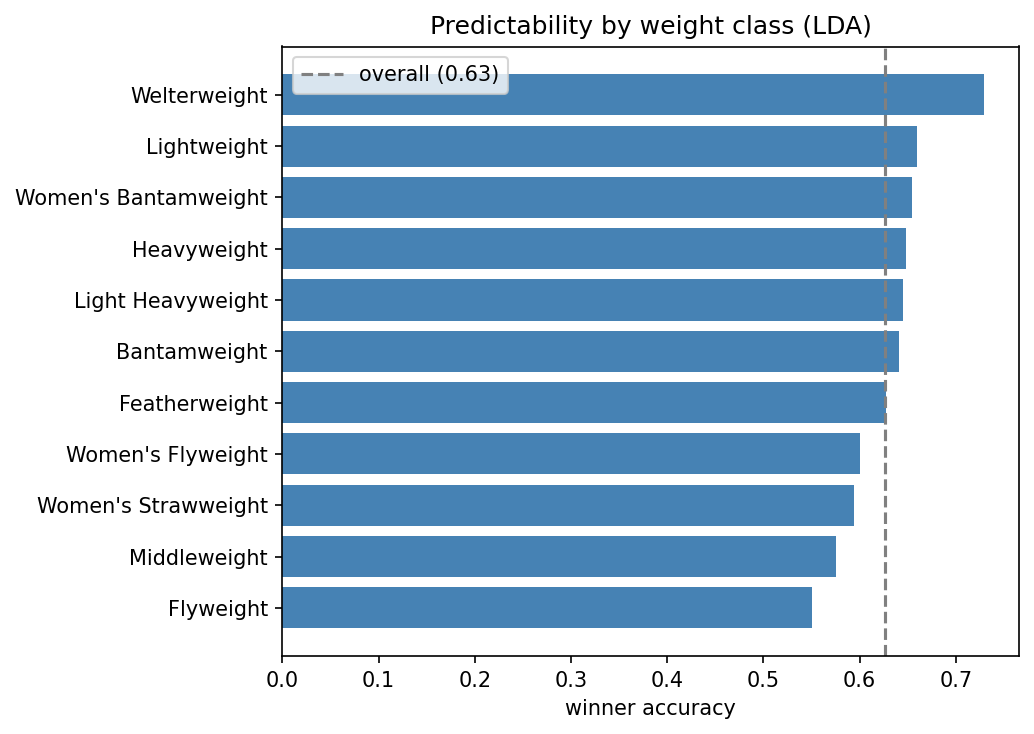
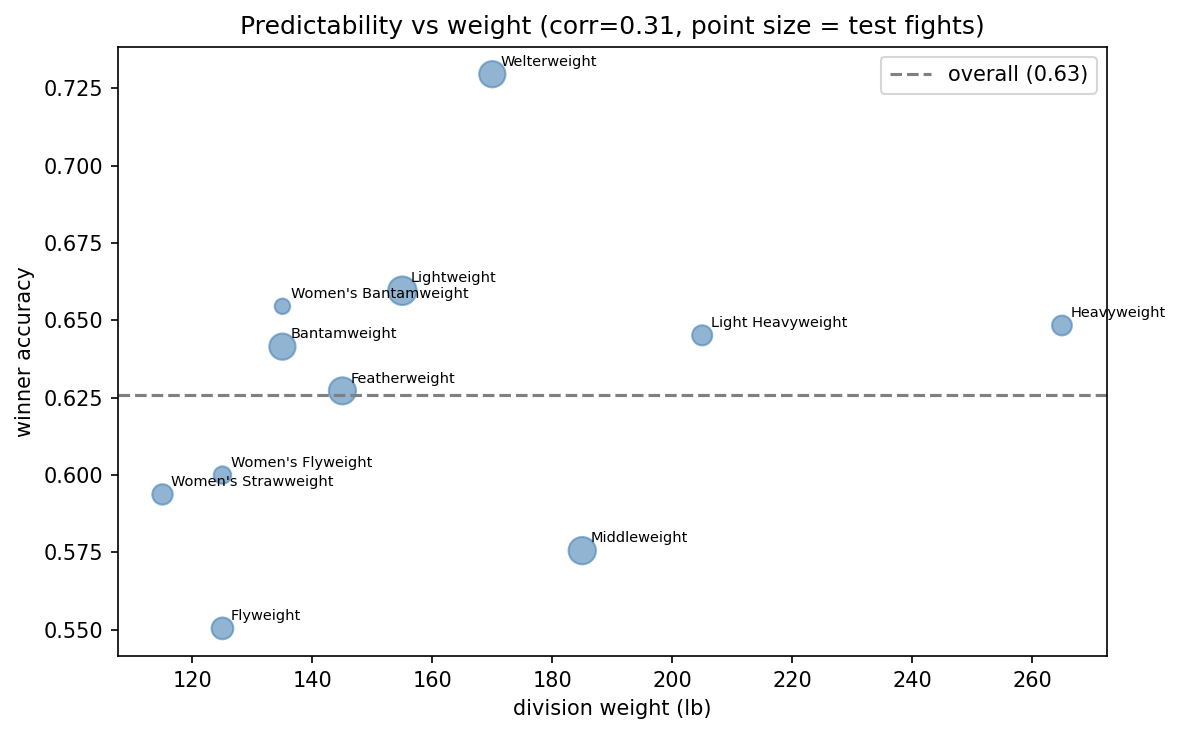
accuracy-vs-weight scatter (corr +0.31, no real trend), feature-importance most/least bar, tighten weight-class analysis

diff --git a/report/report.md b/report/report.md
@@ -145,7 +145,7 @@ All numbers below are the mean over three symmetrization seeds, on the chronolog
 
 **What predicts how a fight ends?** Method of victory is harder than the winner: method accuracy hovers around 0.50, and the confusion matrix shows the models concentrate on the common decision outcomes, recovering knockouts and especially submissions less often. The class imbalance (decisions are by far the largest class) and the inherent unpredictability of finishes both contribute.
 
-**Where prediction works better.** The single accuracy figure hides real variation across divisions. Broken down by weight class, winner accuracy ranges from about 0.73 in welterweight to about 0.55 in flyweight, an eighteen-point spread. Crucially, this variation does not track weight in any clean way: the heaviest division (heavyweight) sits mid-table, the lightest (flyweight) is lowest, and the middle divisions span the whole range (welterweight highest, middleweight low). Neither common intuition is borne out here, that heavier divisions are more luck-driven through knockout power, or that lighter divisions reward skill and are therefore more predictable. The per-division estimates are also noisy (several divisions have only about 50 to 100 test fights), so we report the spread as a real but unexplained effect and leave both its causes and per-division modelling to future work. (Figure: `accuracy_by_weightclass.png`.)
+**Where prediction works better.** The single accuracy figure hides real variation across divisions. Broken down by weight class, winner accuracy ranges from about 0.73 in welterweight to about 0.55 in flyweight, an eighteen-point spread. Crucially, this variation does not track weight in any clean way: the correlation between a division's weight and its accuracy is only about +0.31 across the nine divisions, weak and not significant given so few points. The heaviest division (heavyweight) sits mid-table, the lightest (flyweight) is lowest, and the middle divisions span the whole range (welterweight highest, middleweight low). If anything, that weak positive sign points the opposite way to the common knockout-luck intuition, it would make heavier divisions marginally more predictable rather than less, but the effect is too small and noisy to rest anything on. The per-division estimates are themselves noisy (several divisions have only about 50 to 100 test fights), so we report the spread as a real but largely unexplained effect and leave its causes and per-division modelling to future work. (Figure: `accuracy_by_weightclass.png`.)
 
 **Errors and limitations.** The headline limitation is the low ceiling itself: a single clean strike can end a fight, so a large share of the outcome is irreducible variance no pre-fight model can capture. Others: the six-class target is imbalanced; symmetrization deliberately removes the corner prior, which costs a little on the original-corner test but buys methodological honesty; and the debut indicator we tried added nothing. None of these are fatal, and several of our choices (the confound control, the leakage audit, the market benchmark) are exactly the rigour that distinguishes the study.
 